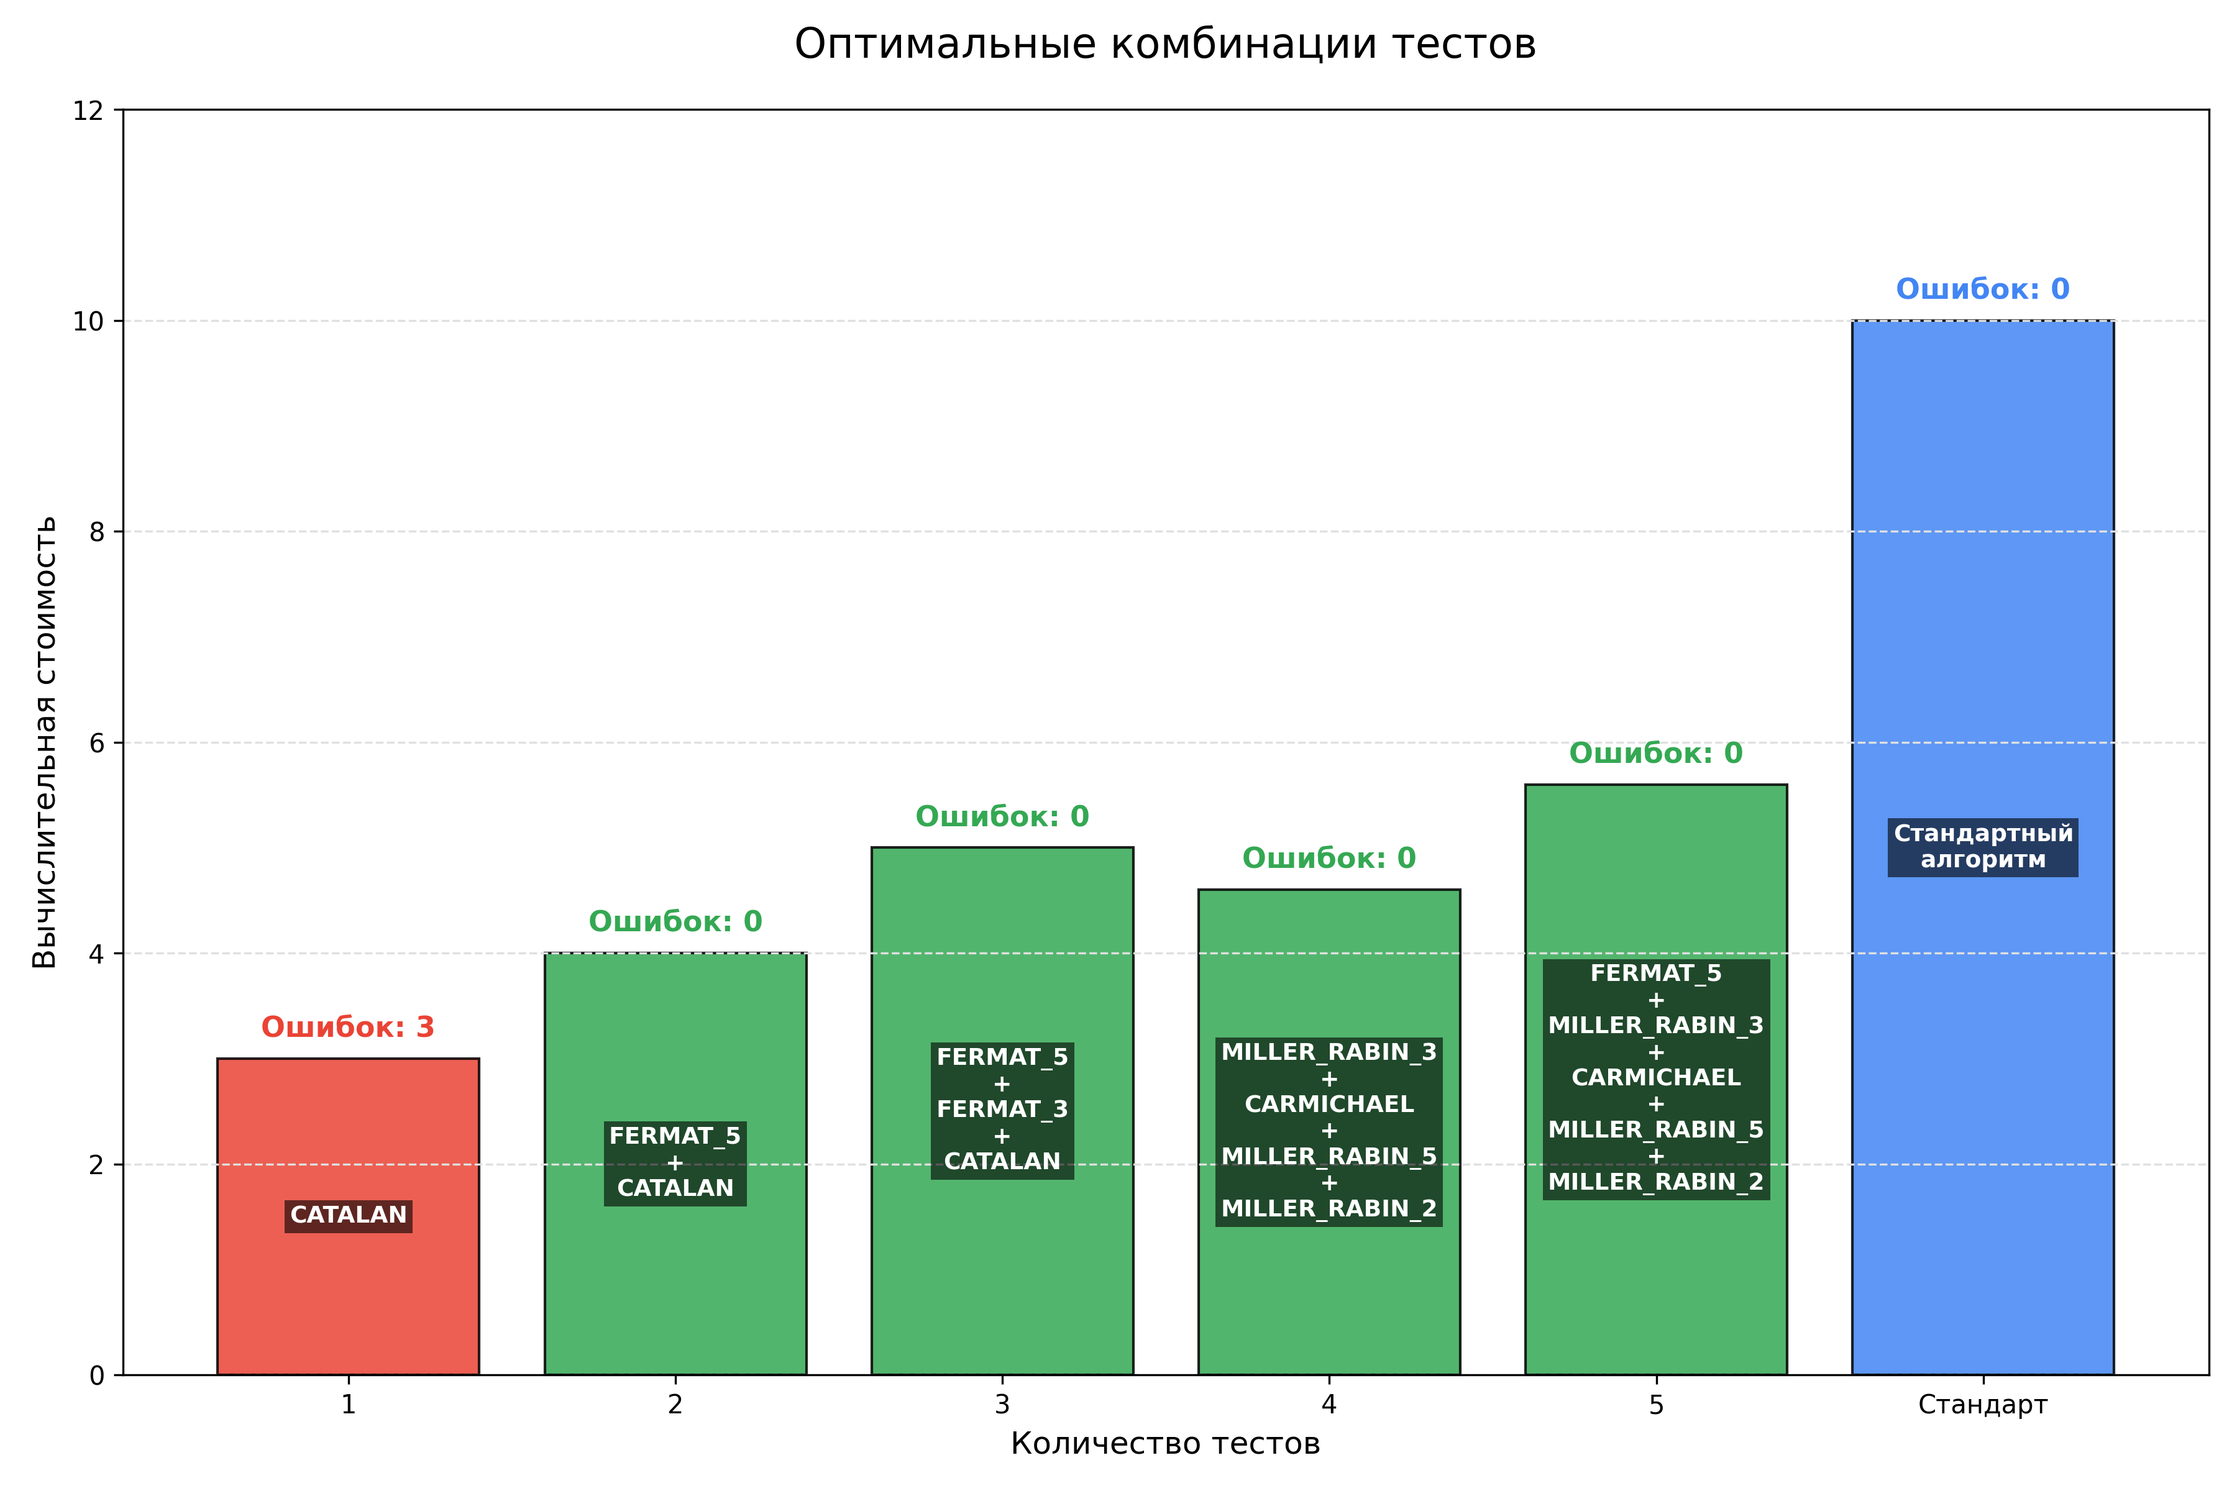
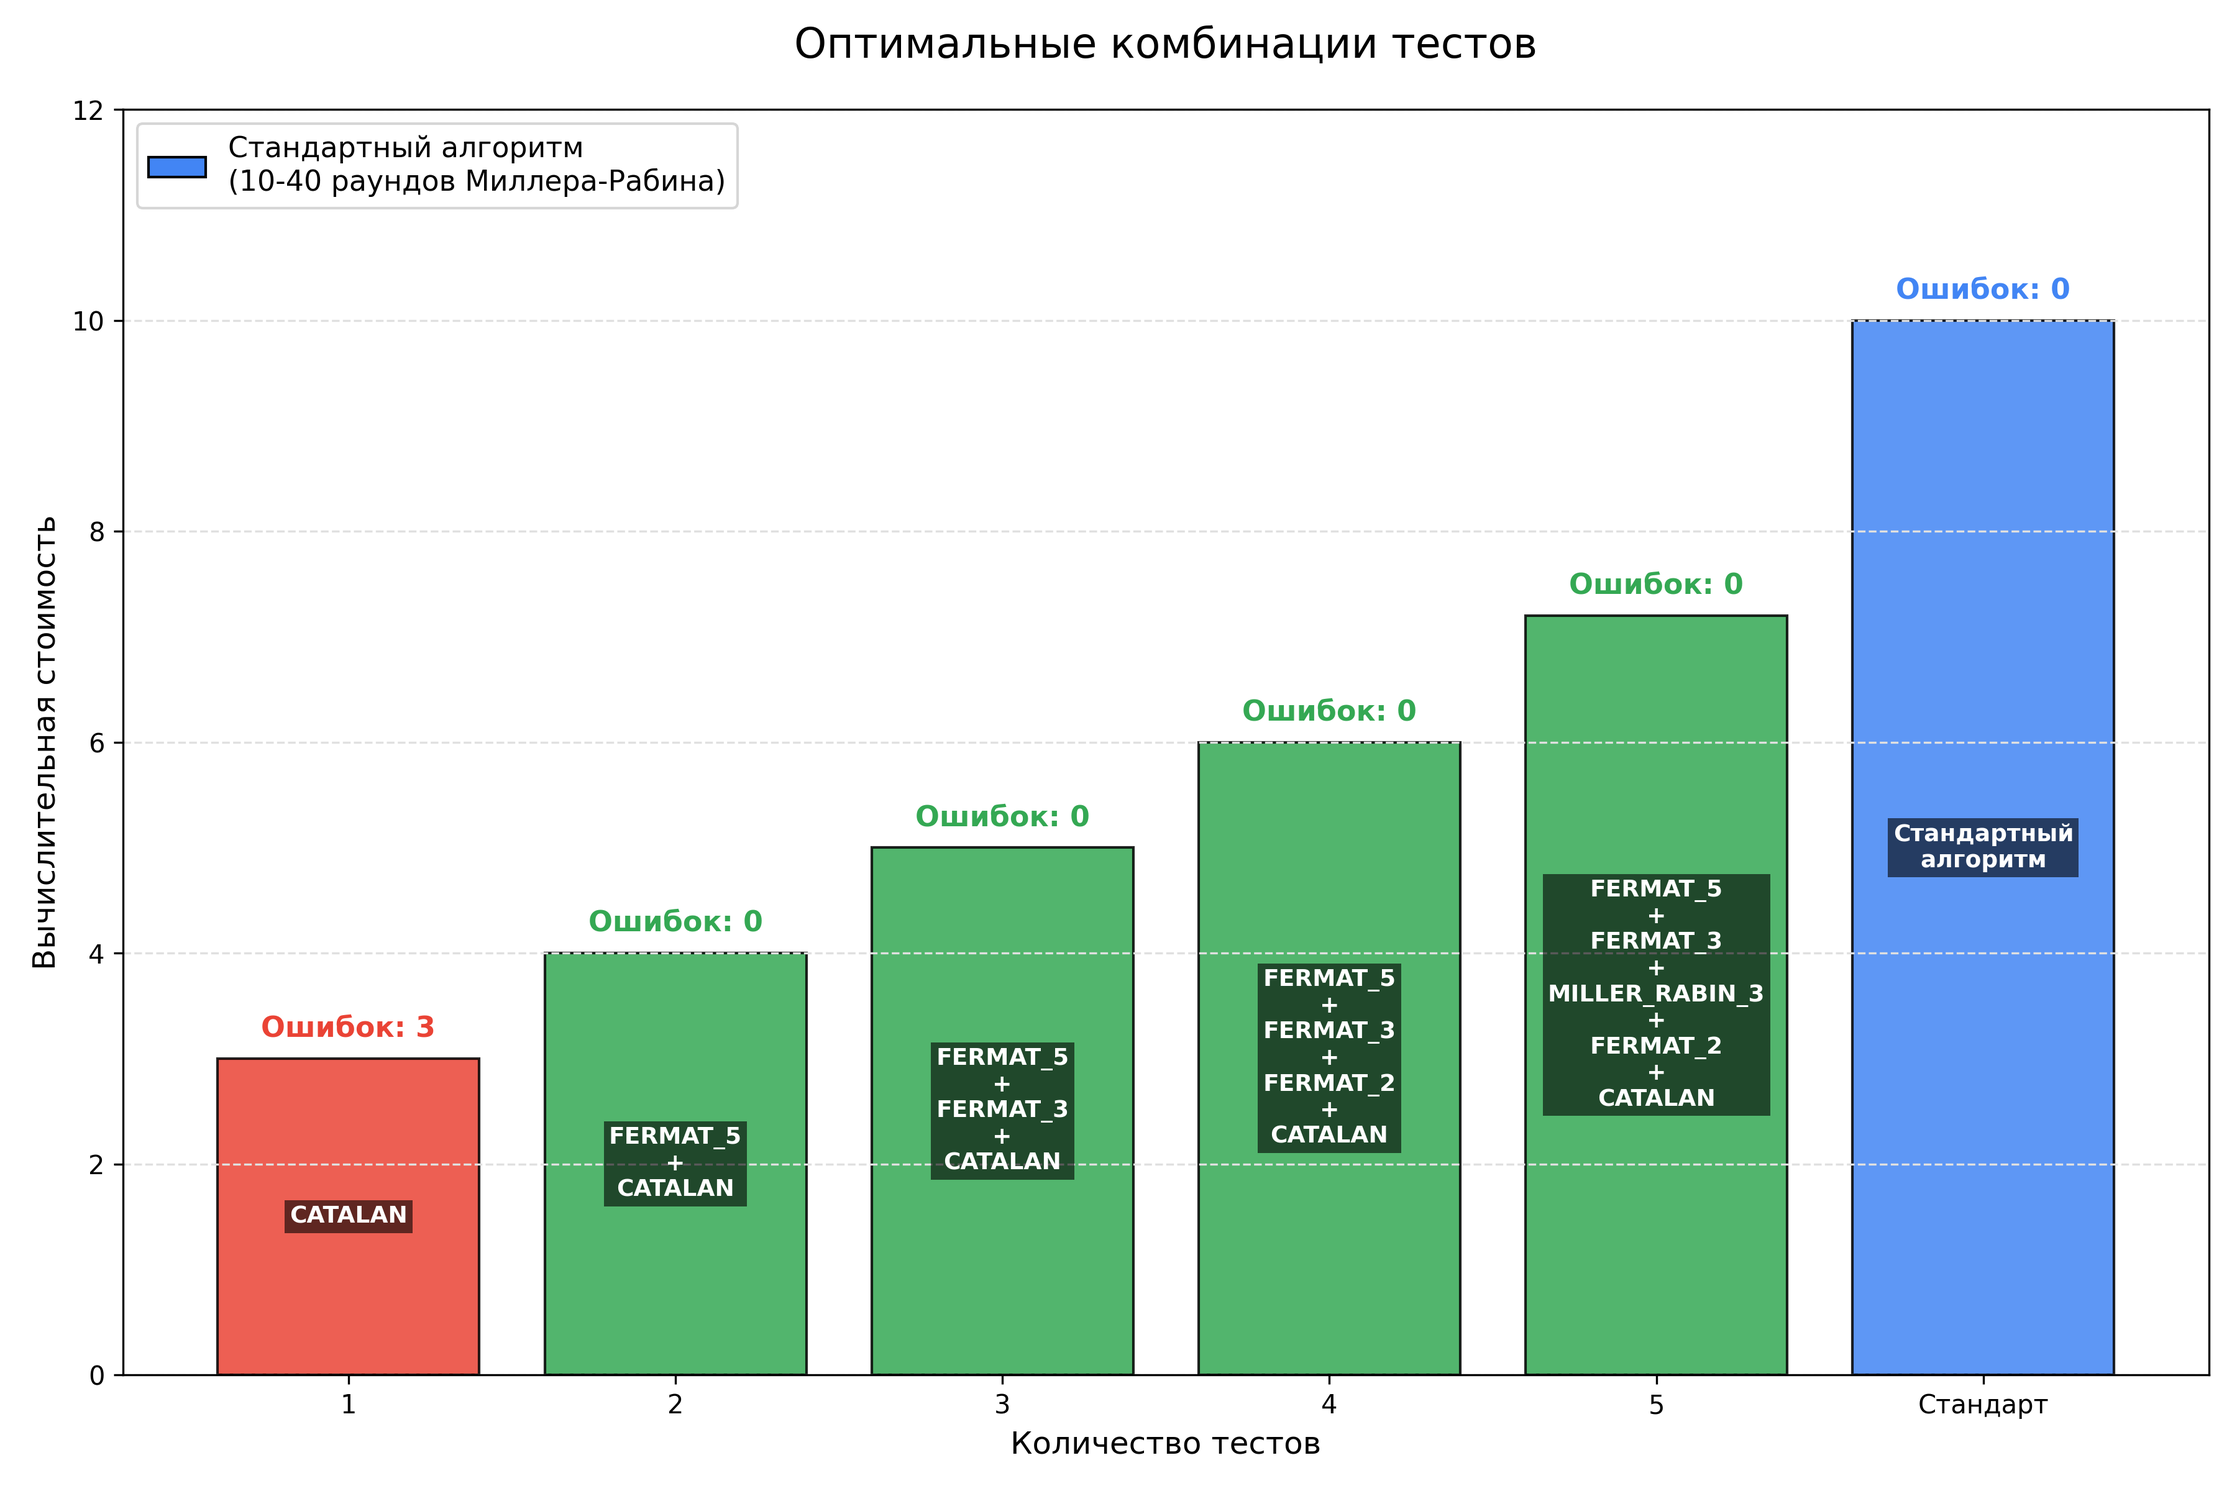
Added improvements to the charts

diff --git a/src/diagonals_analysis.py b/src/diagonals_analysis.py
@@ -6,8 +6,7 @@ import matplotlib
 matplotlib.use('Agg')
 import matplotlib.pyplot as plt
 from astropy.stats import kuiper
-from sklearn.linear_model import RANSACRegressor, LinearRegression
-from sklearn.utils import resample
+from sklearn.linear_model import RANSACRegressor
 
 SCRIPT_DIR = os.path.dirname(os.path.abspath(__file__))
 DATA_DIR = os.path.abspath(os.path.join(SCRIPT_DIR, '..', 'data'))
@@ -22,11 +21,11 @@ PLOT_CLEAN_PATH = os.path.join(CHARTS_DIR, 'ransac_lines_clean.png')
 
 MAX_LINES_TO_FIND = 5
 MIN_POINTS_IN_LINE = 15
-RESIDUAL_THRESHOLD = 0.8
+RESIDUAL_THRESHOLD = 0.01
 
 BG_COLOR = 'white'
 TEXT_COLOR = 'black'
-NOISE_COLOR = '#8c8c8c'
+NOISE_COLOR = '#d3d3d3'
 LINE_COLORS = ['#d62728', '#1f77b4', '#2ca02c', '#ff7f0e', '#9467bd']
 
 
@@ -45,6 +44,62 @@ def run_kuiper_test(df_pseudo):
         print("Распределение не случайно\n")
     else:
         print("Распределение случайно\n")
+
+
+def run_scale_stability_test(df_pseudo):
+    print("Тест устойчивости к объему выборки")
+    thresholds = [1.0, 0.5, 0.25, 0.1, 0.05, 0.01, 0.005, 0.001]
+    max_num = df_pseudo['num'].max()
+
+    for t in thresholds:
+        limit = int(max_num * t)
+        subset = df_pseudo[df_pseudo['num'] <= limit]
+
+        print(f"Выборка {t * 100:.1f}%, N <= {limit}")
+
+        if len(subset) < MIN_POINTS_IN_LINE:
+            print("Недостаточно данных\n")
+            continue
+
+        remaining = subset.copy()
+
+        for i in range(MAX_LINES_TO_FIND):
+            if len(remaining) < MIN_POINTS_IN_LINE:
+                break
+
+            X = remaining[['x_coord']].values
+            y = remaining['y_coord'].values
+
+            ransac_y = RANSACRegressor(residual_threshold=RESIDUAL_THRESHOLD, max_trials=50000, random_state=42)
+            ransac_y.fit(X, y)
+            count_y = ransac_y.inlier_mask_.sum()
+
+            ransac_x = RANSACRegressor(residual_threshold=RESIDUAL_THRESHOLD, max_trials=50000, random_state=42)
+            ransac_x.fit(remaining[['y_coord']].values, remaining['x_coord'].values)
+            count_x = ransac_x.inlier_mask_.sum()
+
+            is_vertical = count_x > count_y
+
+            if not is_vertical and count_y >= MIN_POINTS_IN_LINE:
+                mask = ransac_y.inlier_mask_
+                m = ransac_y.estimator_.coef_[0]
+                c = ransac_y.estimator_.intercept_
+                sign = "+" if c >= 0 else "-"
+                equation = f"y = {m:.2f}x {sign} {abs(c):.2f}"
+            elif is_vertical and count_x >= MIN_POINTS_IN_LINE:
+                mask = ransac_x.inlier_mask_
+                m = ransac_x.estimator_.coef_[0]
+                c = ransac_x.estimator_.intercept_
+                sign = "+" if c >= 0 else "-"
+                equation = f"x = {m:.2f}y {sign} {abs(c):.2f}"
+            else:
+                break
+
+            inliers_count = mask.sum()
+            print(f"Прямая {i + 1}: {inliers_count} точек, {equation}")
+
+            remaining = remaining[~mask]
+        print("")
 
 
 def run_ransac_analysis(df_pseudo):
@@ -98,26 +153,19 @@ def run_ransac_analysis(df_pseudo):
         if inliers_count > max_inliers:
             max_inliers = inliers_count
 
-        print(f"Прямая {i + 1}: {inliers_count} точек, {equation}")
-        slopes = []
+        n_min = inlier_points['num'].min()
+        n_max = inlier_points['num'].max()
+        x_min = inlier_points['x_coord'].min()
+        x_max = inlier_points['x_coord'].max()
+        y_min = inlier_points['y_coord'].min()
+        y_max = inlier_points['y_coord'].max()
 
-        for _ in range(50):
-            sample = resample(inlier_points, replace=True)
+        print(f"Прямая {i + 1}: {equation}")
+        print(f"Точек: {inliers_count}")
+        print(f"Диапазон N: {n_min} - {n_max}")
+        print(f"Диапазон X: {x_min} - {x_max}")
+        print(f"Диапазон Y: {y_min} - {y_max}\n")
 
-            if len(sample) < 2:
-                continue
-
-            lr = LinearRegression()
-
-            if is_vertical:
-                lr.fit(sample[['y_coord']].values, sample['x_coord'].values)
-            else:
-                lr.fit(sample[['x_coord']].values, sample['y_coord'].values)
-
-            slopes.append(lr.coef_[0])
-
-        ci_lower, ci_upper = np.percentile(slopes, 2.5), np.percentile(slopes, 97.5)
-        print(f"Диапазон наклона: {ci_lower:.4f}, {ci_upper:.4f}")
         color = LINE_COLORS[i % len(LINE_COLORS)]
 
         lines_data.append({
@@ -138,7 +186,8 @@ def run_ransac_analysis(df_pseudo):
         fig.patch.set_facecolor(BG_COLOR)
 
         if show_noise:
-            ax.scatter(df_pseudo['x_coord'], df_pseudo['y_coord'], color=NOISE_COLOR, s=15, zorder=1)
+            ax.scatter(df_pseudo['x_coord'], df_pseudo['y_coord'], color=NOISE_COLOR, alpha=0.3, s=15, zorder=1,
+                       label='Остальные псевдопростые')
 
         for line in lines_data:
             ax.scatter(line['pts_x'], line['pts_y'], color=line['color'], s=30, zorder=3)
@@ -152,8 +201,9 @@ def run_ransac_analysis(df_pseudo):
         ax.grid(True, color='#e0e0e0', linestyle='--', zorder=0)
 
         if len(ax.get_legend_handles_labels()[0]) > 0:
+            legend_title = None if show_noise else "Уравнения прямых:"
             ax.legend(facecolor='white', edgecolor='#cccccc', labelcolor=TEXT_COLOR, loc='center left',
-                      bbox_to_anchor=(1.02, 0.5), fontsize=11)
+                      bbox_to_anchor=(1.02, 0.5), fontsize=11, title=legend_title)
 
         ax.axis('equal')
         plt.tight_layout()
@@ -167,7 +217,7 @@ def run_ransac_analysis(df_pseudo):
     return max_inliers
 
 
-def run_monte_carlo_test(df_pseudo, max_inliers, simulations=50):
+def run_monte_carlo_test(df_pseudo, observed_inliers, simulations=50):
     print("Тест Монте-Карло")
     num_points = len(df_pseudo)
     min_x, max_x = df_pseudo['x_coord'].min(), df_pseudo['x_coord'].max()
@@ -177,15 +227,21 @@ def run_monte_carlo_test(df_pseudo, max_inliers, simulations=50):
     for _ in range(simulations):
         sim_x = np.random.uniform(min_x, max_x, num_points)
         sim_y = np.random.uniform(min_y, max_y, num_points)
+
         ransac_y = RANSACRegressor(residual_threshold=RESIDUAL_THRESHOLD, max_trials=1000)
         ransac_y.fit(sim_x.reshape(-1, 1), sim_y)
         in_y = ransac_y.inlier_mask_.sum()
+
         ransac_x = RANSACRegressor(residual_threshold=RESIDUAL_THRESHOLD, max_trials=1000)
         ransac_x.fit(sim_y.reshape(-1, 1), sim_x)
         in_x = ransac_x.inlier_mask_.sum()
+
         sim_inliers.append(max(in_y, in_x))
 
-    p_value = (np.count_nonzero(np.array(sim_inliers) >= max_inliers) + 1) / (simulations + 1)
+    p_value = (np.count_nonzero(np.array(sim_inliers) >= observed_inliers) + 1) / (simulations + 1)
+    max_sim_inliers = max(sim_inliers)
+
+    print(f"Максимальное количество точек: {max_sim_inliers}")
     print(f"p_value: {p_value:.4f}")
 
     if p_value < 0.05:
@@ -200,8 +256,11 @@ if __name__ == "__main__":
     else:
         dataframe = pd.read_csv(FILE_NAME)
         df_pseudo = dataframe[dataframe['is_pseudo'] == 1].copy()
+
         print(f"Псевдопростые числа: {len(df_pseudo)}\n")
+
         run_kuiper_test(df_pseudo)
+        run_scale_stability_test(df_pseudo)
         max_inliers = run_ransac_analysis(df_pseudo)
 
         if max_inliers > 0:

diff --git a/src/tests_effectiveness_analysis.py b/src/tests_effectiveness_analysis.py
@@ -4,6 +4,8 @@ import os
 import itertools
 import matplotlib
 import ast
+from collections import defaultdict
+from matplotlib.patches import Patch
 
 matplotlib.use('Agg')
 import matplotlib.pyplot as plt
@@ -25,11 +27,13 @@ TEXT_COLOR = 'black'
 STANDARD_TEST_COST = 10.0
 
 TEST_COSTS = {
-    "MILLER_RABIN": 1.2, "EULER_JACOBI": 1.5, "ABSOLUTE_EULER": 1.5,
+    "MILLER_RABIN": 1.2, "EULER_JACOBI": 1.5,
     "EULER": 1.5, "BRUCKMAN_LUCAS": 3.0, "ODD_FIBONACCI": 3.0,
     "UNRESTRICTED_PERRIN": 3.0, "RESTRICTED_PERRIN": 3.0, "NSW": 3.0,
-    "FROBENIUS": 3.0, "CATALAN": 3.0, "FERMAT": 1.0, "CARMICHAEL": 1.0
+    "FROBENIUS": 3.0, "CATALAN": 3.0, "FERMAT": 1.0
 }
+
+NON_TESTS = {"CARMICHAEL", "ABSOLUTE_EULER"}
 
 
 def get_cost(test_name):
@@ -53,7 +57,7 @@ def run_efficiency_analysis(df_pseudo):
         types = types_raw.split('|')
 
         for t in types:
-            if not t:
+            if not t or t in NON_TESTS:
                 continue
             if t not in errors_map:
                 errors_map[t] = set()
@@ -101,6 +105,7 @@ def run_efficiency_analysis(df_pseudo):
     df_stats = pd.DataFrame(stats)
     df_stats['Score'] = (df_stats['Errors'] + 1) * df_stats['Cost']
     df_stats = df_stats.sort_values(by=['Errors', 'Cost'], ascending=[False, False])
+
     fig1, ax1 = plt.subplots(figsize=(14, 10))
     fig1.patch.set_facecolor(BG_COLOR)
     ax1.set_facecolor(BG_COLOR)
@@ -125,11 +130,14 @@ def run_efficiency_analysis(df_pseudo):
     costs = [best_combos[k]['cost'] for k in range(1, 6)] + [STANDARD_TEST_COST]
     errors = [best_combos[k]['errors'] for k in range(1, 6)] + [0]
     combos = ["\n+\n".join(best_combos[k]['combo']) for k in range(1, 6)] + ["Стандартный\nалгоритм"]
+
     fig2, ax2 = plt.subplots(figsize=(12, 8))
     fig2.patch.set_facecolor(BG_COLOR)
     ax2.set_facecolor(BG_COLOR)
+
     bar_colors = ['#34A853' if e == 0 else '#EA4335' for e in errors[:-1]] + ['#4285F4']
     bars2 = ax2.bar(x_labels, costs, color=bar_colors, edgecolor='black', alpha=0.85)
+
     ax2.set_title("Оптимальные комбинации тестов", fontsize=16, pad=20)
     ax2.set_xlabel("Количество тестов", fontsize=12)
     ax2.set_ylabel("Вычислительная стоимость", fontsize=12)
@@ -143,13 +151,16 @@ def run_efficiency_analysis(df_pseudo):
                  fontweight='bold', bbox=dict(facecolor='black', alpha=0.6, edgecolor='none', pad=2))
 
         text_color = '#34A853' if errors[i] == 0 and i != 5 else '#EA4335'
-
         if i == 5:
             text_color = '#4285F4'
 
         ax2.text(bar.get_x() + bar.get_width() / 2, height + 0.15,
                  err_text, ha='center', va='bottom', fontsize=11, fontweight='bold',
                  color=text_color)
+
+    legend_combo = [
+        Patch(facecolor='#4285F4', edgecolor='black', label='Стандартный алгоритм\n(10-40 раундов Миллера-Рабина)')]
+    ax2.legend(handles=legend_combo, loc='upper left', facecolor='white', edgecolor='#cccccc', fontsize=11)
 
     ax2.set_ylim(0, max(costs) + 2.0)
     ax2.grid(True, axis='y', color='#e0e0e0', linestyle='--')
@@ -158,9 +169,15 @@ def run_efficiency_analysis(df_pseudo):
     plt.close(fig2)
 
     print("Построение графика стоимости тестов...")
-    df_costs = df_stats[['Test', 'Cost']].copy()
+    unique_costs = []
+    for base_name, cost in TEST_COSTS.items():
+        if any(base_name in t for t in test_names):
+            unique_costs.append({'Test': base_name, 'Cost': cost})
+
+    df_costs = pd.DataFrame(unique_costs)
     df_costs.loc[len(df_costs)] = ['STANDARD_ALGORITHM', STANDARD_TEST_COST]
     df_costs = df_costs.sort_values(by=['Cost', 'Test'], ascending=[True, False])
+
     fig3, ax3 = plt.subplots(figsize=(12, 10))
     fig3.patch.set_facecolor(BG_COLOR)
     ax3.set_facecolor(BG_COLOR)
@@ -185,17 +202,18 @@ def run_efficiency_analysis(df_pseudo):
     ax3.set_xlim(0, STANDARD_TEST_COST + 1.5)
     ax3.grid(True, axis='x', color='#e0e0e0', linestyle='--')
 
-    from matplotlib.patches import Patch
     legend_elements = [
-        Patch(facecolor='#34A853', edgecolor='black', label='Низкая (≤1.2)'),
-        Patch(facecolor='#FBBC04', edgecolor='black', label='Средняя (1.5)'),
-        Patch(facecolor='#EA4335', edgecolor='black', label='Высокая (≥3.0)'),
-        Patch(facecolor='#4285F4', edgecolor='black', label='Стандарт (10.0)')
+        Patch(facecolor='#34A853', edgecolor='black', label='Низкая'),
+        Patch(facecolor='#FBBC04', edgecolor='black', label='Средняя'),
+        Patch(facecolor='#EA4335', edgecolor='black', label='Высокая'),
+        Patch(facecolor='#4285F4', edgecolor='black', label='Стандартная')
     ]
     ax3.legend(handles=legend_elements, loc='lower right', facecolor='white', edgecolor='#cccccc', fontsize=11)
+
     plt.tight_layout()
     fig3.savefig(COST_PLOT_PATH, dpi=300)
     plt.close(fig3)
+
     print("Графики сохранены\n")
 
 
@@ -215,16 +233,15 @@ if __name__ == "__main__":
     if not os.path.exists(FILE_NAME):
         print(f"Ошибка: Файл {FILE_NAME} не найден.")
     else:
-        print(f"Чтение файла {FILE_NAME}...")
-        chunk_list = []
+        print(f"Чтение файла {FILE_NAME}...\n")
 
+        chunk_list = []
         for chunk in pd.read_csv(FILE_NAME, chunksize=1000000):
             filtered = chunk[chunk['is_pseudo'] == 1]
             chunk_list.append(filtered)
 
         df_pseudo = pd.concat(chunk_list, ignore_index=True)
         print(f"Псевдопростые числа: {len(df_pseudo)}\n")
-        print("Преобразование форматов колонок...")
 
         if 'types_str' not in df_pseudo.columns and 'pseudo_types' in df_pseudo.columns:
             df_pseudo['types_str'] = df_pseudo['pseudo_types'].apply(clean_and_parse_types)
